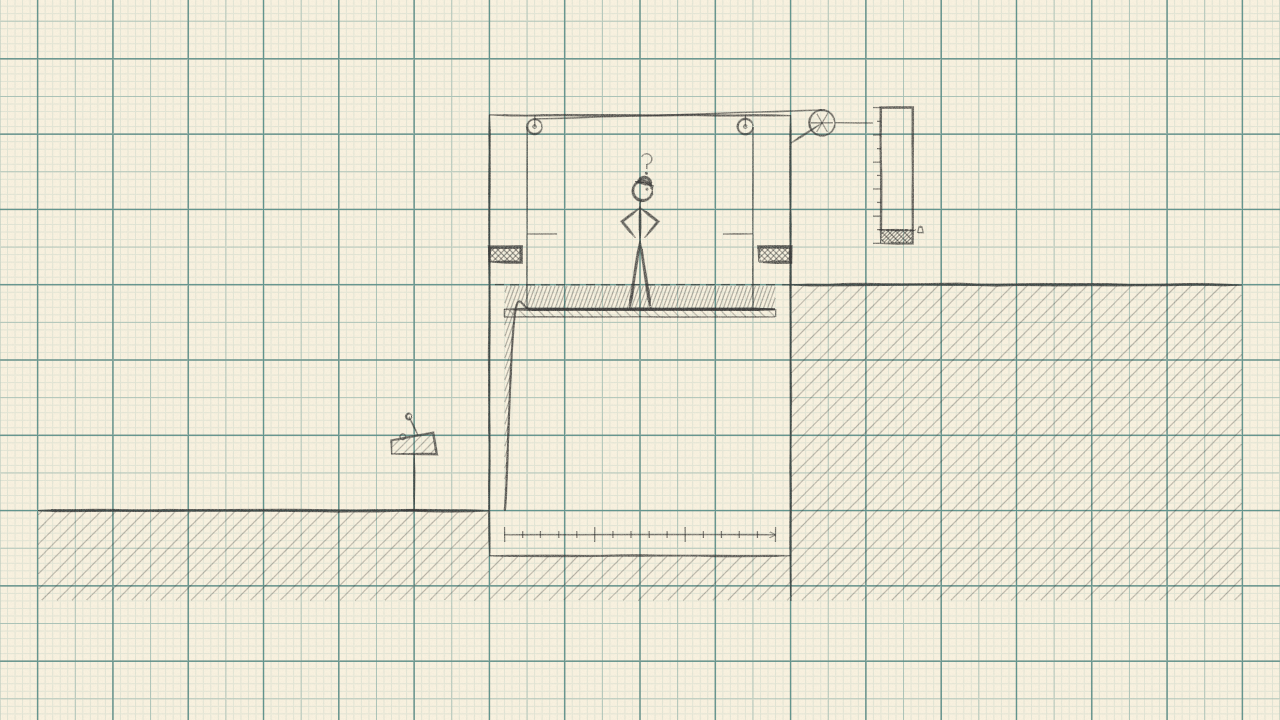
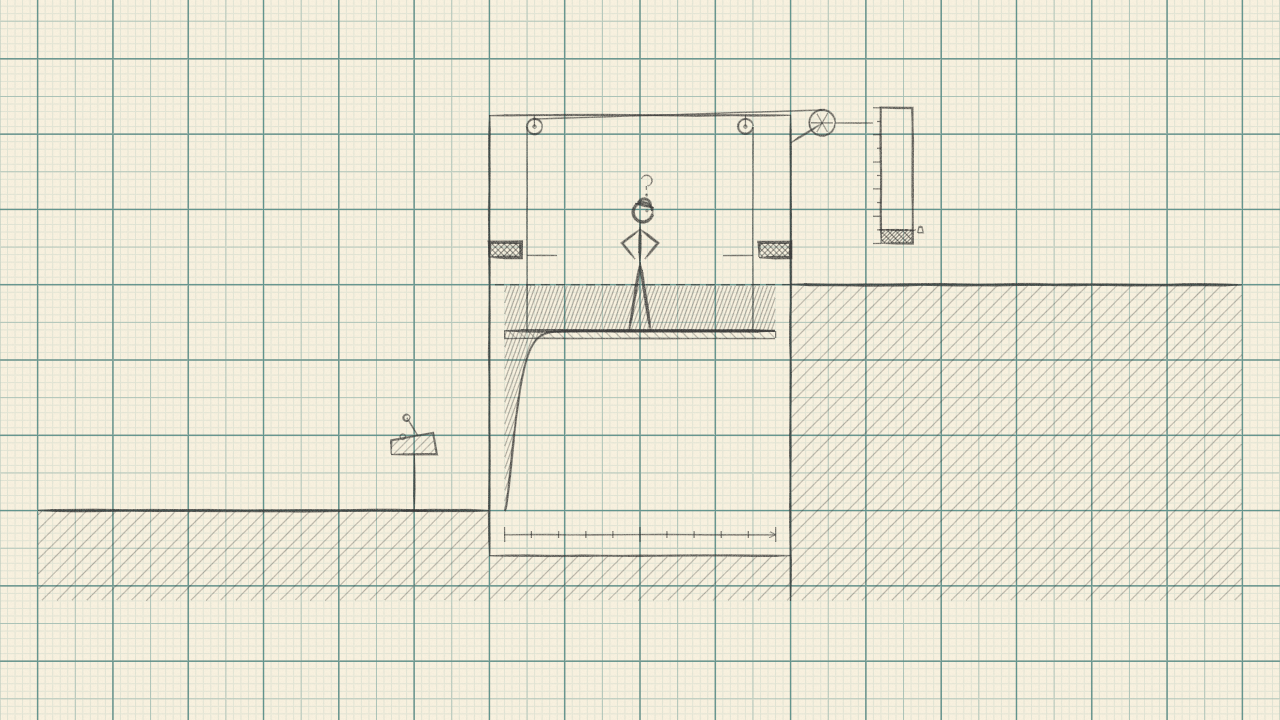
T-025 (N1) : captures périmées régénérées (K35)

diff --git a/orchestration/DEFAUTS-CONNUS.md b/orchestration/DEFAUTS-CONNUS.md
@@ -38,7 +38,7 @@ Liste tenue par l'orchestrateur. Rien ici n'est bloquant pour la v0.1.
 | K32 | Niveau 2 : avec la tolérance de 0,5 m, Ki = 0 gagnait et le défaut gagnait sans réglage | T-021a, T-021b | corrigé (D29, T-022) : tolérance 0,10 m ; grille de Ki : trop court 0 à 100, victoire 200 à 800, choc 900 à 8000 ; défaut Ki = 2000 : choc |
 | K33 | Portrait 390 px, niveau 2 : le panneau de réglage défile en interne (231 px visibles pour 341 px de contenu) et « Lancer » n'est pas visible sans défiler (la touche Entrée et le bouton « Action » restent) | T-021b | mineur (voir K5, K25) |
 | K34 | Niveau 2 : l'issue « trop lent » n'arrive sur aucun Ki de la grille de 100 (seulement Ki = 130, hors grille) ; l'oracle exact donne « trop lent » pour Ki de 128,38 à 138,59 (entiers 129 à 138) : `level2.fail.slow` et `hud.status.fail.slow` ne s'affichent jamais à un joueur ; « Il manque 0,10 m » apparaîtrait à Ki = 120 (e = 0,1046), valeur inatteignable au curseur ; victoire la plus lente hors grille à Ki = 140 (pas 1185 sur 1200) | T-022 | mineur |
-| K35 | Captures du dépôt périmées : `t008-paper-1280x720`, `t009-01`, `t009-02`, `t010-01`, `t010-06` (Kp par défaut 500 : levier de la console, étiquette Kp), `t009-06-trop-court` (courbe sur 6 s), `t021-*` (Ki par défaut 500) | T-022 | mineur |
+| K35 | Captures du dépôt périmées : `t008-paper-1280x720`, `t009-01`, `t009-02`, `t010-01`, `t010-06` (Kp par défaut 500 : levier de la console, étiquette Kp), `t009-06-trop-court` (courbe sur 6 s), `t021-*` (Ki par défaut 500) | T-022 | corrigé (T-025) : t008-paper-1280x720, t009-01, t009-02, t009-06, t010-01, t010-06 et t021-niveau2-* régénérées ; t019-* identiques (non périmées) ; t010-02, 03, 05 non touchées (tremblement du crayon seulement) |
 | K36 | Portrait 390 px, niveau 1 : le titre « Force du moteur » touche l'étiquette « 5000 N max » d'environ 4 px (corrigé au niveau 2 seulement, par un décalage de 6 px) | T-024 | mineur |
 | K37 | Portrait 390 px, niveau 1 : la cote chiffrée « e = 0,00 m » touche l'étiquette « poids » de 3 px (corrigé au niveau 2 seulement, par un décalage de 6 px) | T-024 | mineur |
 | K38 | Niveau 2 en paysage : l'étiquette « Terme intégral I » monte à environ 54 px, presque la barre du haut (56 px) ; sans recouvrement à 1280×720, non testé sur des fenêtres paysage plus basses ; le panneau de mesures est plus étroit (environ 180 px) | T-024 | mineur |

diff --git a/orchestration/REGISTRE.md b/orchestration/REGISTRE.md
@@ -65,6 +65,7 @@ Depuis D19 (ADR-014), les règles courantes sont dans `CLAUDE.md` : rôles dans 
 | T-022 | réalisateur + validateur | Trajet de 10 s, Kp par défaut 2000, tolérance du niveau 2 à 0,10 m (K32), oracle MATLAB relancé | VALIDÉ (réserves levées, N3) | logs/T-022.md |
 | T-023 | réalisateur + validateur | Oracle MATLAB du PI (`t018_*.m`), test d'oracle exact `pi-exact.test.ts` (K28) | VALIDÉ (réserve levée, N3) | logs/T-023.md |
 | T-024 | réalisateur | Niveau 2 : jauge du terme intégral I (K30), étiquettes FR/EN, ligne de légende, capture | VALIDÉ (N2) | — |
+| T-025 | orchestrateur | K35 : régénération des 10 captures périmées de `docs/img` (e2e, tri manuel) | FAIT (N1) | — |
 | T-000 | réalisateur | Pilote : git init, .gitignore, .gitattributes | VALIDÉ | logs/T-000.md |
 | T-001 | concepteur | Spec de la tranche verticale | VALIDÉ | logs/T-001.md |
 | T-002 | réalisateur | Socle outillé (npm, TS, Vite, lint, tests) | VALIDÉ (réserves) | logs/T-002.md |
